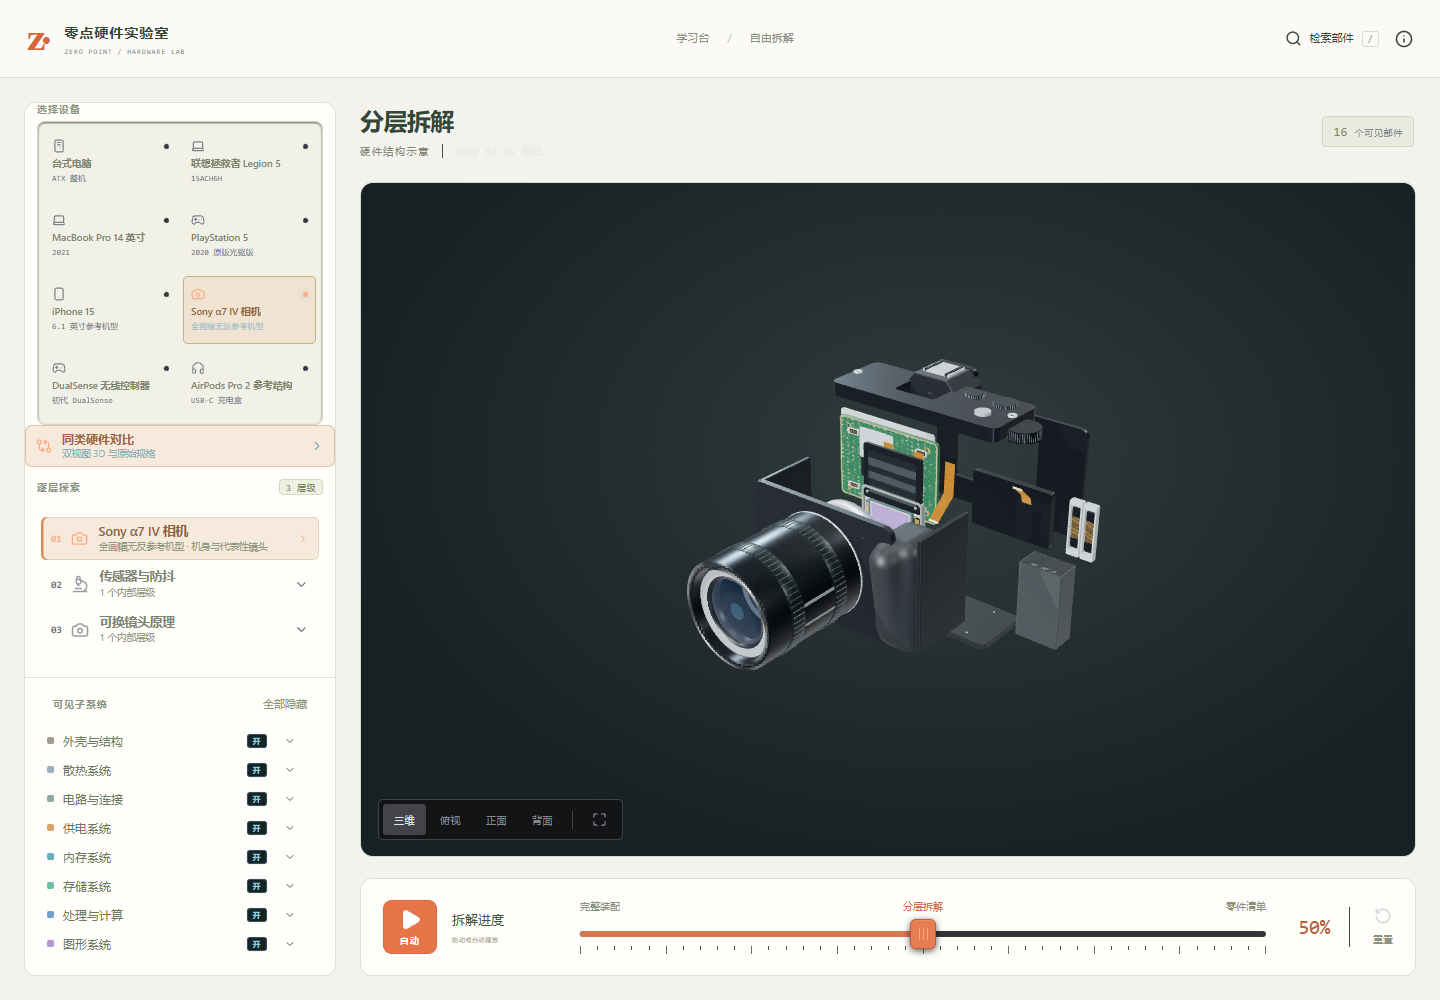
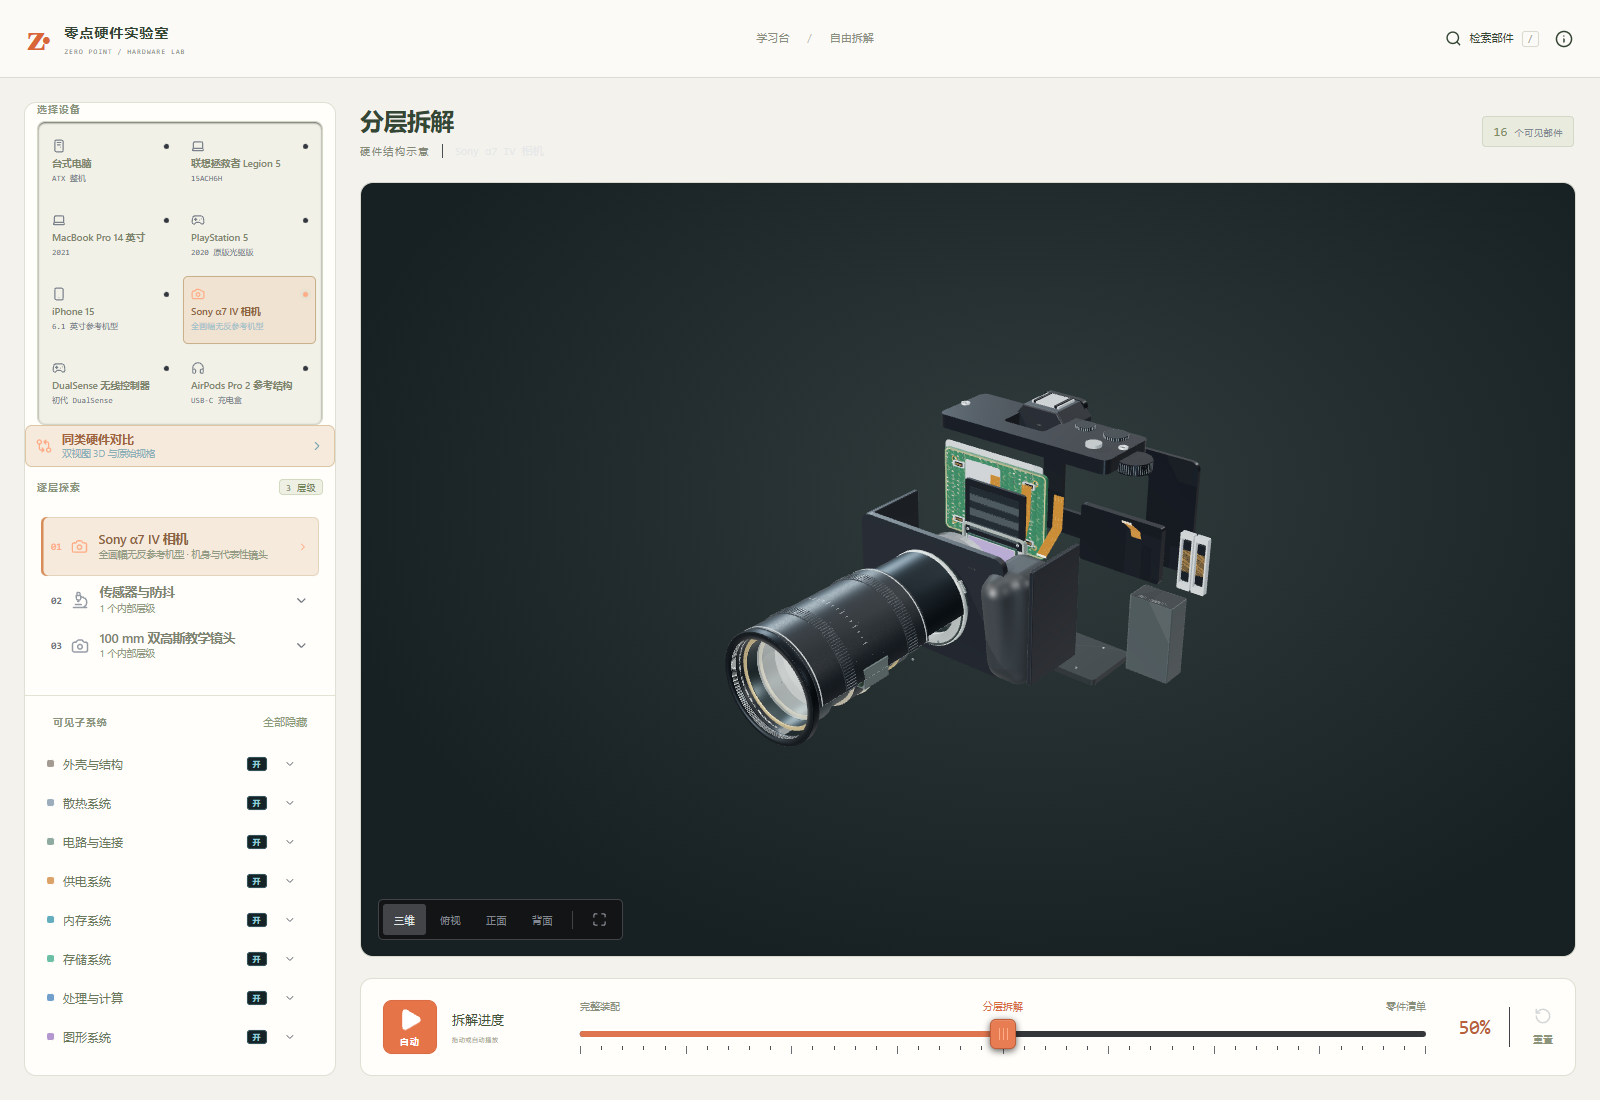
fix: fit controller internals to licensed shell and document optical reconstruction

diff --git a/lib/digital/lens-geometry.ts b/lib/digital/lens-geometry.ts
@@ -18,8 +18,17 @@ import {
 export function buildLensPart(part: DigitalPart, tools: ModelTools) {
   const g = new T.Group(),
     id = part.id;
-  const metal = (color = '#7d888c', rough = 0.32) =>
-    tools.material(color, 0.8, rough);
+  const finishes = new Map<string, T.MeshStandardMaterial>();
+  const metal = (color = '#7d888c', rough = 0.44) => {
+    const key = color + rough;
+    if (finishes.has(key)) return finishes.get(key)!;
+    const material = tools.material(color, 0.78, rough).clone();
+    material.roughnessMap = null;
+    material.roughness = rough;
+    material.envMapIntensity = 0.9;
+    finishes.set(key, material);
+    return material;
+  };
   const plastic = () => tools.material('#151c22', 0.05, 0.72);
   const put = (object: T.Object3D, x = 0, y = 0, z = 0) => {
     object.position.set(x, y, z);
@@ -33,12 +42,13 @@ export function buildLensPart(part: DigitalPart, tools: ModelTools) {
     material: T.Material = metal(),
     section = false,
   ) => {
+    const b = Math.min(0.5, h * 0.2, (outer - inner) * 0.2);
     const profile = [
       [inner, -h / 2],
-      [outer - 0.5, -h / 2],
-      [outer, -h / 2 + 0.5],
-      [outer, h / 2 - 0.5],
-      [outer - 0.5, h / 2],
+      [outer - b, -h / 2],
+      [outer, -h / 2 + b],
+      [outer, h / 2 - b],
+      [outer - b, h / 2],
       [inner, h / 2],
       [inner, -h / 2],
     ].map(([x, y]) => new T.Vector2(x, y));
@@ -182,18 +192,6 @@ export function buildLensPart(part: DigitalPart, tools: ModelTools) {
   } else if (id === 'helicoid') {
     put(ring(29, 27.6, 25, metal('#827f68'), true));
     for (let start = 0; start < 3; start++) {
-      const points: T.Vector3[] = [];
-      for (let i = 0; i <= 720; i++) {
-        const a = (i / 720) * Math.PI * 18 + (start * Math.PI * 2) / 3;
-        if (a % (Math.PI * 2) < Math.PI / 2) continue;
-        points.push(
-          new T.Vector3(
-            Math.sin(a) * 29.1,
-            -11 + (i / 720) * 22,
-            Math.cos(a) * 29.1,
-          ),
-        );
-      }
       // Each turn is a separate open helix arc; do not bridge the section cut.
       for (let turn = 0; turn < 9; turn++) {
         const arc: T.Vector3[] = [];

diff --git a/lib/digital/geometry.ts b/lib/digital/geometry.ts
@@ -7,8 +7,8 @@ import type { ModelTools } from '../hardware.ts';
 import type { Vec3 } from '../layout.ts';
 import type { DigitalLevel, DigitalPart } from './catalogue.ts';
 
-/** Authored, photo-referenced geometry in native millimetres. No remote textures,
- * mesh downloads, opaque fake internal blocks, or random component placement. */
+/** Native-millimetre teaching geometry, licensed controller surfaces and
+ * prescription-based optical solids. Sources are recorded per assembly. */
 export function detailedGeometry(
   level: DigitalLevel,
   part: DigitalPart,
@@ -443,15 +443,15 @@ export function detailedGeometry(
   function shellController(top: boolean) {
     for (const x of [-52, 52])
       for (const z of [-25, 27]) {
-        put(disk(2.7, 7, '#d2d6d3', 1.1), [x, top ? 4 : -7, z]);
+        put(disk(2.7, 7, '#d2d6d3', 1.1), [x, top ? -2 : -17, z]);
         for (const sign of [-1, 1])
-          put(box([8, 1, 1.1], '#cbd1cf'), [x + sign * 4, top ? 7 : -11, z]);
+          put(box([8, 1, 1.1], '#cbd1cf'), [x + sign * 4, top ? 0 : -19, z]);
       }
     for (const side of [-1, 1])
       for (let i = 0; i < 5; i++) {
         const rib = box([1.2, 5.5, 10], '#ced4d0', 0.02, 0.3);
         rib.rotation.y = side * -0.25;
-        put(rib, [side * (55 + i * 1.6), top ? 6 : -10, 10 + i * 5]);
+        put(rib, [side * (55 + i * 1.6), top ? -4 : -16, 10 + i * 5]);
       }
   }
   function trigger() {
@@ -957,9 +957,11 @@ export function detailedGeometry(
     trigger();
   else if (level === 'gamepad' && (id === 'haptics' || id === 'right-haptic')) {
     const motor = new T.Group();
-    put(disk(9, 31, silver), [0, 0, 0], motor);
-    put(disk(7.8, 2, ink), [0, 16, 0], motor);
-    put(disk(7, 1, copper), [0, -16, 0], motor);
+    const radius = Math.min(w, h) / 2,
+      length = d - 1.2;
+    put(disk(radius, length, silver), [0, 0, 0], motor);
+    put(disk(radius * 0.88, 1.2, ink), [0, length / 2, 0], motor);
+    put(disk(radius * 0.8, 1, copper), [0, -length / 2, 0], motor);
     motor.rotation.x = Math.PI / 2;
     g.add(motor);
     for (const [x, c] of [

diff --git a/tests/digital.test.ts b/tests/digital.test.ts
@@ -273,3 +273,25 @@ await test('all six curved glass solids render and the source image plane meets 
   assert.ok(Math.abs(27.5/15-sensitive.max.z-18/15)<1e-5,'E-mount mating face is 18 mm ahead of sensor');
   assert.ok(opticalCentre>38 && opticalCentre<40);
 });
+
+await test('controller battery and haptic bodies stay inside the licensed shell at representative sections',()=>{
+  const definition=digitalDefinitions.find(d=>d.id==='gamepad')!;
+  const shell=new T.Group();
+  for(const part of definition.parts){const exterior=gamepadExterior(part);if(exterior){exterior.position.set(...part.pos);shell.add(exterior);}}
+  shell.updateMatrixWorld(true);
+  const sections:[number,number,number,number][]=[];
+  for(const id of ['battery','haptics','right-haptic']){
+    const part=definition.parts.find(p=>p.id===id)!;
+    const [x,y,z]=part.pos,half=part.size[1]/2;
+    for(const offset of id==='battery'?[0]:[-part.size[2]/2,part.size[2]/2])sections.push([x,z+offset,y-half,y+half]);
+  }
+  for(const [x,z,bottom,top] of sections){
+    const ray=new T.Raycaster(new T.Vector3(x,100,z),new T.Vector3(0,-1,0));
+    const hits=ray.intersectObject(shell,true).filter(hit=>/^(back-shell|black-front-shell|white-shell)/.test(hit.object.name));
+    assert.ok(hits.length>=2,`closed shell section ${x},${z}`);
+    const heights=hits.map(hit=>hit.point.y);
+    assert.ok(top<Math.max(...heights),`body pierces upper skin at ${x},${z}`);
+    assert.ok(bottom>Math.min(...heights),`body pierces lower skin at ${x},${z}`);
+  }
+  disposeModelResources({root:shell,pieces:[]});
+});

diff --git a/lib/digital/refinements.ts b/lib/digital/refinements.ts
@@ -522,12 +522,12 @@ export function refineDigitalDefinitions(definitions: Definition[]) {
   });
   edit('gamepad', 'board', {
     size: [96, 2, 48],
-    pos: [0, 0, -9],
+    pos: [0, 10, -17],
     delta: [0, 24, 0],
   });
   edit('gamepad', 'battery', {
     size: [40, 10, 31],
-    pos: [0, -10, -4],
+    pos: [0, 0, -14],
     delta: [0, -32, 15],
   });
   edit('gamepad', 'leftstick', { size: [22, 21, 22], pos: [-25.4, 14, 0] });
@@ -559,8 +559,8 @@ export function refineDigitalDefinitions(definitions: Definition[]) {
   );
   edit('gamepad', 'haptics', {
     shape: 'actuator',
-    size: [21, 18, 34],
-    pos: [-52, -5, 24],
+    size: [15, 15, 25.2],
+    pos: [-55, -12, 19],
     delta: [-30, -20, 30],
     name: '左侧线性触觉执行器',
     description:
@@ -571,8 +571,8 @@ export function refineDigitalDefinitions(definitions: Definition[]) {
     'right-haptic',
     '右侧线性触觉执行器',
     'actuator',
-    [21, 18, 34],
-    [52, -5, 24],
+    [15, 15, 25.2],
+    [55, -12, 19],
     [30, -20, 30],
     '右侧独立线性执行器通过线缆接到控制电路，向右手传递触觉反馈。',
   );
@@ -582,7 +582,7 @@ export function refineDigitalDefinitions(definitions: Definition[]) {
     '电池承载架',
     'tray',
     [47, 3, 38],
-    [0, -3, -4],
+    [0, -3, -15],
     [0, -25, 0],
     '电池架定位中央电池，并与周围的主板、扬声器与线缆分开。',
     'Chassis',

diff --git a/lib/digital/gamepad-asset.ts b/lib/digital/gamepad-asset.ts
@@ -70,7 +70,9 @@ export async function prepareModelAssets(level: LevelId) {
       await installGamepadAsset(await response.arrayBuffer());
     })().catch((error) => {
       pending = null;
-      throw new Error(`手柄模型资源加载失败，请刷新后重试。${error instanceof Error?error.message:''}`);
+      throw new Error(
+        `手柄模型资源加载失败，请刷新后重试。${error instanceof Error ? error.message : ''}`,
+      );
     });
   await pending;
 }

diff --git a/ARCHITECTURE.md b/ARCHITECTURE.md
@@ -2,11 +2,11 @@
 
 ## Multi-device Chinese explorer (2026-10-19)
 
-The current app contains eight independent device roots, 82 scales and 741 concepts.
+The current app contains eight independent device roots, 82 scales and 754 concepts.
 The 14 new scales are declared with their native dimensions and part ownership in
 `lib/digital/catalogue.ts`, built by `lib/digital/models.ts`, and registered through
 the same model/manifest/level contracts as the desktop and notebooks. Five new
-device families have 148 authored catalogue entries. `lib/devices.ts` is the
+device families have 161 catalogue entries including roots. `lib/devices.ts` is the
 home library; tests require its roots to match `systemRoots` exactly.
 
 Each device family uses a documented millimetres-per-unit conversion. Installing a
@@ -674,3 +674,11 @@ as part of the task rather than a follow-up.
 `lib/digital/refinements.ts` applies photo-referenced layouts while preserving existing component IDs, saved lessons and deep links. `lib/digital/geometry.ts` builds native-millimetre shells, apertures, board outlines, connectors, flex, dual-sided packages and mechanical modules. Native transforms stay below the stage-owned root. There are 143 selectable component definitions across the fourteen digital scales, plus five root catalogue entries. Internal fasteners/passives remain part of their named assembly, rather than fictitious independently identified electronic parts.
 
 Moulded digital enclosures now use static field-extracted surfaces (molded-shells.ts), with independently owned geometry clones and analytic field normals. The controller fascia uses a pierced, subdivided contour projected onto its shell, so a thin overlay cannot disappear between field samples. board-detail.ts maps board artwork in native millimetres and batches representative support devices while keeping package and aperture keepouts. These batches inherit their owning PCB's picking and motion identity.
+
+## Licensed meshes and optical prescriptions (2026-10-19)
+
+Current totals: 8 roots, 82 scales, 754 concepts; 156 digital component definitions plus 5 digital root entries. The earlier totals above describe the previous revision.
+
+`gamepad-asset.ts` lazily loads the credited CC BY GLB, caches a private CPU template and clones geometry, materials and texture handles per rendered instance. Viewer and comparison creation/update await assets, reject stale navigation revisions and dispose engines resolving after unmount. Failure is reported instead of silently substituting the old coarse shell.
+
+`lens-prescription.ts` contains the MIT DoubleGauss prescription and CC0 glass coefficients. `lens-layout.ts` maps native millimetres into assemblies; `lens-geometry.ts` creates closed spherical solids and authored sectioned mechanics. Tests cover cemented interfaces, edge thickness, paraxial imaging, and the mounted sensor plane. Mechanical dimensions and clear aperture choices are teaching design.

diff --git a/docs/DIGITAL-DEVICES.md b/docs/DIGITAL-DEVICES.md
@@ -1,6 +1,6 @@
 # 数码设备：拆解资料与重建范围
 
-核对日期：2026-10-19。此轮替换了原有通用方块模型，重点重建主要内部装配。几何由项目编写，不把拆解照片、视频截图或第三方模型打包进应用。
+核对日期：2026-10-19。此轮替换了原有通用方块模型，重点重建主要内部装配。机械教学结构由项目编写；手柄外观及镜片数据采用明确授权的第三方资源，见文末更新与资源清单。
 
 ## 逐设备依据
 
@@ -55,3 +55,13 @@ node scripts/learning-smoke.mjs
 - 芯片外观区分基板、塑封、定位点和底部焊点；焊点阵列只表达封装结构，不宣称球数、引脚分配或真实网络。
 - PS5 外盖调整外翻与前后收束，补充进气栅格及底座；相机增加封闭侧壁、控制拨轮和可透视的镜片表面；手机保持 Apple 内部视图朝向并收紧开盖距离。
 - 不新增虚构芯片型号或微型器件目录 ID，课程与分享链接保持有效。密集支持件仍是示意布局；这些细节不改变上述精度边界。
+
+## 授权模型与处方数据更新（2026-10-19）
+
+本轮采用 Taohid Animation 的 CC BY 4.0 手柄外观网格，以及 Optiland 的 MIT DoubleGauss 光学处方。此前“全部新增几何独立编写”的描述不再适用于手柄外观与镜片数据。详见 [第三方资源清单](../THIRD_PARTY_ASSETS.md) 与 [资源审核](OPEN-MODEL-AUDIT.md)。
+
+手柄保留 81 个曲面网格、原始 UV 与贴图，重新归入交互总成；内部机构仍由项目根据资料构建，不能由外观模型反推为实测内部尺寸。每次实例独立持有几何、材质和纹理句柄。
+
+镜头为 100 mm、F/5、六片四组教学设计。球面曲率、厚度、胶合关系和轴向间距来自处方；口径与机械结构由项目设计，不是 Sony 商用镜头原厂 CAD。近轴焦距约 100.004 mm，后焦距约 61.488 mm。新增镜片座、压圈、对焦螺旋副、光圈驱动和卡口等，可选部件由 7 增至 20。四分之一剖开镜筒用于观察。
+
+相机有效感光面校正为 36×24 mm，镜头处方像平面与装机后的感光面重合，卡口配合面位于感光面前 18 mm。近轴与装配坐标检查不代表完整像差分析或制造公差验证。

diff --git a/docs/VALIDATION.md b/docs/VALIDATION.md
@@ -2,7 +2,7 @@
 
 日期：2026-10-19（Asia/Shanghai）。环境：Windows，Node.js v24.20.0，npm 11.19.0。
 
-## 当前版本：曲面、封装与 PCB 细节深化
+## 上一版本：曲面、封装与 PCB 细节深化（历史记录）
 
 - 单元与几何检查：127 / 127 通过，0 失败、0 跳过；lint 与 TypeScript 通过。
 - 构建与入口预算通过：入口约 72.3 KiB gzip，仍低于未修改的 220 KiB 预算。Three.js 运行时分块仍有体积提示，没有通过放宽预算掩盖。
@@ -102,3 +102,11 @@ node scripts/notebook-smoke.mjs
 - 手机检查使用 390 × 844 CSS 像素的浏览器视口，不能代替真实手机触控、双指缩放与所有设备兼容性检查。
 - 本次不配置远程，不推送、不部署；GitHub CI 和托管平台上的实际构建尚未运行。
 - 独立域名发布时仍需替换继承的 SEO 域名，具体位置见 README。
+
+## 2026-10-19：资源许可与光学数据
+
+当前代码单元与几何测试 131 / 131 通过。新增验证：81 个源网格的交互归属、独立实例资源、六片镜片的正边缘厚度、胶合面一致性、近轴焦距与像平面，以及 36×24 mm 感光面和 18 mm 法兰距。此前 127 项为上一版本历史结果。
+
+当前为 8 台设备、82 层级、754 条资料，156 个数码组件定义，另有 5 个设备根条目。手柄外观 GLB 6,244,172 字节，作者、许可与 SHA-256 已归档，只在进入手柄时加载。镜头机械结构与有效口径为教学设计；未声称完整实光线追迹、像差或制造验证。
+
+本轮浏览器检查：14 个数码层级 × 0% / 50% / 100%、五条新课程与十五个实验、中文详情、隐藏与恢复、深入返回、设备分类与移动布局通过，无 pageerror；原有内存课程的观察门槛、错误重试、持久化、复习、重置与损坏存储回退也通过。最终调整后数码几何定向测试 19 / 19 再次通过，新增外壳截面检查使用实际部件目录的位置及包络尺寸。

diff --git a/docs/OPEN-MODEL-AUDIT.md b/docs/OPEN-MODEL-AUDIT.md
@@ -1,0 +1,15 @@
+# 开源模型与数据审核
+
+核对日期：2026-10-19。公开可查看不等于允许再分发；只有许可明确、用途匹配的资源才进入运行资源目录。
+
+| 资源 | 判断与用途 |
+| --- | --- |
+| [Taohid Animation — PS5 Controller](https://sketchfab.com/3d-models/ps5-controller-b7bb9c5102a04cb0b1966c6d02bad7d6) | 作者平台 API 确认 CC BY 4.0、允许下载。采用外观网格，保留署名和贴图；内部机构另建，不能把外观网格称为内部实测数据。 |
+| [Optiland DoubleGauss](https://github.com/optiland/optiland/blob/master/optiland/samples/objectives.py) | MIT。采用曲率、厚度、玻璃序列、光阑位置与后焦距，重建六片四组光学实体。机械结构与有效口径由项目设计。 |
+| [refractiveindex.info database](https://github.com/polyanskiy/refractiveindex.info-database) | CC0。采用 Optiland 0.6.3 随附的 SCHOTT 玻璃 Sellmeier 系数，计算折射率。 |
+| [PINE64 PinePhone 资料](https://pine64.org/documentation/PinePhone/_full/) | 可用于研究开放硬件装配；尚未核实具体 STEP 文件的再分发许可，未打包进应用，也不能代替 iPhone 15。 |
+| [rtql8d PS5](https://sketchfab.com/3d-models/ps5-d788de3735964151a3e24fd59c0f1956) | 页面明确为简化外观模型，无法解决当前内部拆解精度问题，未采用。 |
+| [CadCrowd AirPods](https://www.cadcrowd.com/3d-models/airpods-1) | 代际与当前 AirPods Pro 2 USB-C 不符，未采用。 |
+| [CadCrowd iPhone 15 Pro Max](https://www.cadcrowd.com/3d-models/i-phone-15-pro-max) | 与项目标准版 iPhone 15 不同，不能混用，未采用。 |
+
+手柄原始文件通过带署名的 [dualsense-studio 镜像](https://github.com/SafaElmali/dualsense-studio/blob/main/controller/ATTRIBUTION.md)获取。文件校验、完整许可与修改范围见 [第三方资源清单](../THIRD_PARTY_ASSETS.md)。未使用公开 CT 查看器内容作为可再分发数据。

diff --git a/docs/DEVELOPMENT.md b/docs/DEVELOPMENT.md
@@ -87,3 +87,9 @@
 3. [x] 双面 PCB 图样、实例化分区支持器件、封装基板/塑封/焊点；调整 PS5 外盖与进气边界、相机侧壁、手机开盖距离。
 4. [x] 增加壳体内外壁、贯通摇杆孔、中央面板连续性、板上实例变换的回归检查。
 5. 当前节点的验证与画面记录见 VALIDATION.md，参考与近似范围见 DIGITAL-DEVICES.md。
+
+## 2026-10-19：授权模型与光学数据节点
+
+- `16f3e0b`：接入 CC BY 4.0 手柄外观，将 81 个网格纳入选择、拆解与资源管理；增加异步加载及过期导航保护。
+- 使用 Optiland MIT DoubleGauss 处方重建六片四组镜片和二十部件教学装配，校正感光面和法兰距。
+- 收口：薄环倒角根据壁厚限制，调整金属材质，补齐资源许可、筛选与验证记录。
